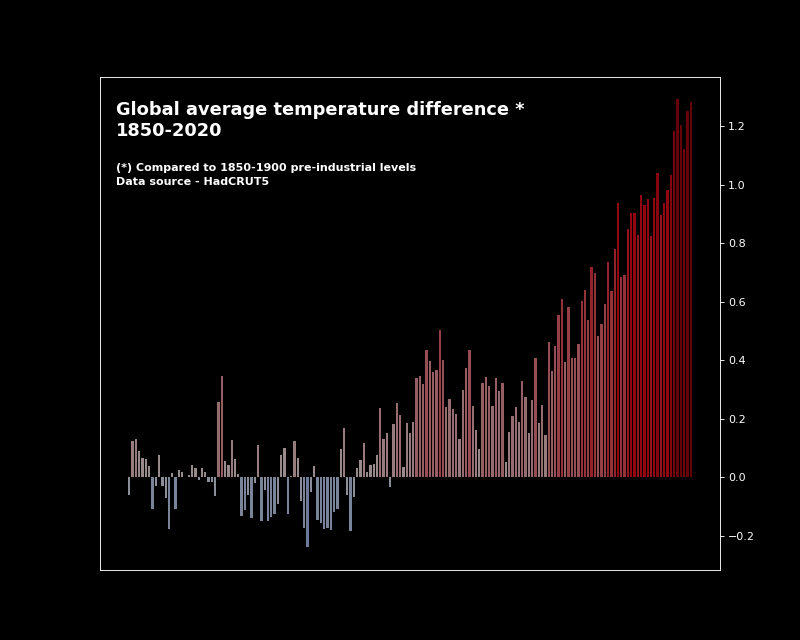
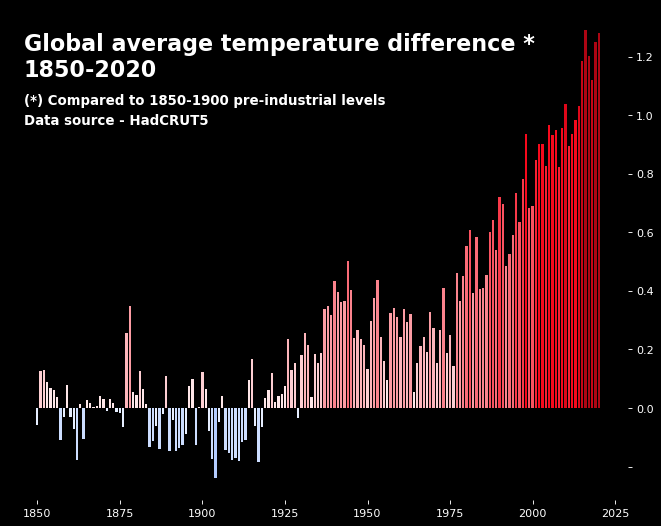
Remove rectangular border and extra horizontal plot padding

diff --git a/hadcrut5-bars.py b/hadcrut5-bars.py
@@ -41,6 +41,12 @@ def parse_args():
     return parser.parse_args()
 
 def plotbar(dataset, outfile, period, verbose):
+    def major_formatter(x, pos):
+        return f'{x:.1f}' if x >= 0 else ''
+
+    # ax.yaxis.set_minor_formatter(yminor_formatter)
+    # view_limits(self, dmin, dmax)[source]
+
     bar_width = 0.7
 
     negative = [
@@ -63,11 +69,11 @@ def plotbar(dataset, outfile, period, verbose):
         'color' : 'white',
         'weight': 'bold',
     }
-    fontxl = { **basefont, "size": 16 }
-    fontxs = { **basefont, "size": 10 }
+    fontxl = { **basefont, "size": 20 }
+    fontxs = { **basefont, "size": 12 }
 
     plt.style.use("dark_background")
-    ax = plt.subplot(111)
+    fix, ax = plt.subplots()
 
     tas_mean = dataset["variables"]["tas_mean"][:]
     years = [y + 1850 for y in range(len(tas_mean))]
@@ -82,7 +88,6 @@ def plotbar(dataset, outfile, period, verbose):
         print(("tas_mean relative to {}: \\\n{}"
                .format(period, np.array(mean))))
 
-
     color_deep = lambda x: math.floor(math.fabs(x * 10))
     get_color = lambda x: positive[color_deep(x)] if x > 0 else negative[color_deep(x)]
     colors = [get_color(i) for i in mean]
@@ -91,12 +96,13 @@ def plotbar(dataset, outfile, period, verbose):
            mean,
            width=bar_width,
            color=colors,
-           alpha=0.6,
            align="center")
 
-    ax.axes.get_xaxis().set_visible(False)
-    ax.yaxis.set_label_position("right")
+    #ax.axis('off')
+    ax.set_frame_on(False)
     ax.yaxis.tick_right()
+    #ax.yaxis.set_major_formatter(ticker.FormatStrFormatter(' %+ 0.1f'))
+    ax.yaxis.set_major_formatter(major_formatter)
 
     upper, left = .95, .025
     last_year = years[-1]
@@ -123,7 +129,7 @@ def plotbar(dataset, outfile, period, verbose):
     fig.set_size_inches(10, 8)   # 1 inch equal to 80pt
 
     if outfile:
-        fig.savefig(outfile, dpi=80)
+        fig.savefig(outfile, dpi=80, bbox_inches='tight')
 
     plt.show()
 

diff --git a/README.md b/README.md
@@ -124,7 +124,7 @@ $ ./hadcrut5-bars.py --outfile plots/HadCRUT5-global-1961-1990.png
 ![HadCRUT5 bar plotting related to 1961-1990](plots/HadCRUT5-global-1961-1990.png)
 
 ```
-$ ./hadcrut5-bars.py --period "1850-1900" --outfile plot/HadCRUT5-global-1850-1900.png
+$ ./hadcrut5-bars.py --period "1850-1900" --outfile plots/HadCRUT5-global-1850-1900.png
 ```
 ![HadCRUT5 bar plotting related to 1850-1900](plots/HadCRUT5-global-1850-1900.png)
 
